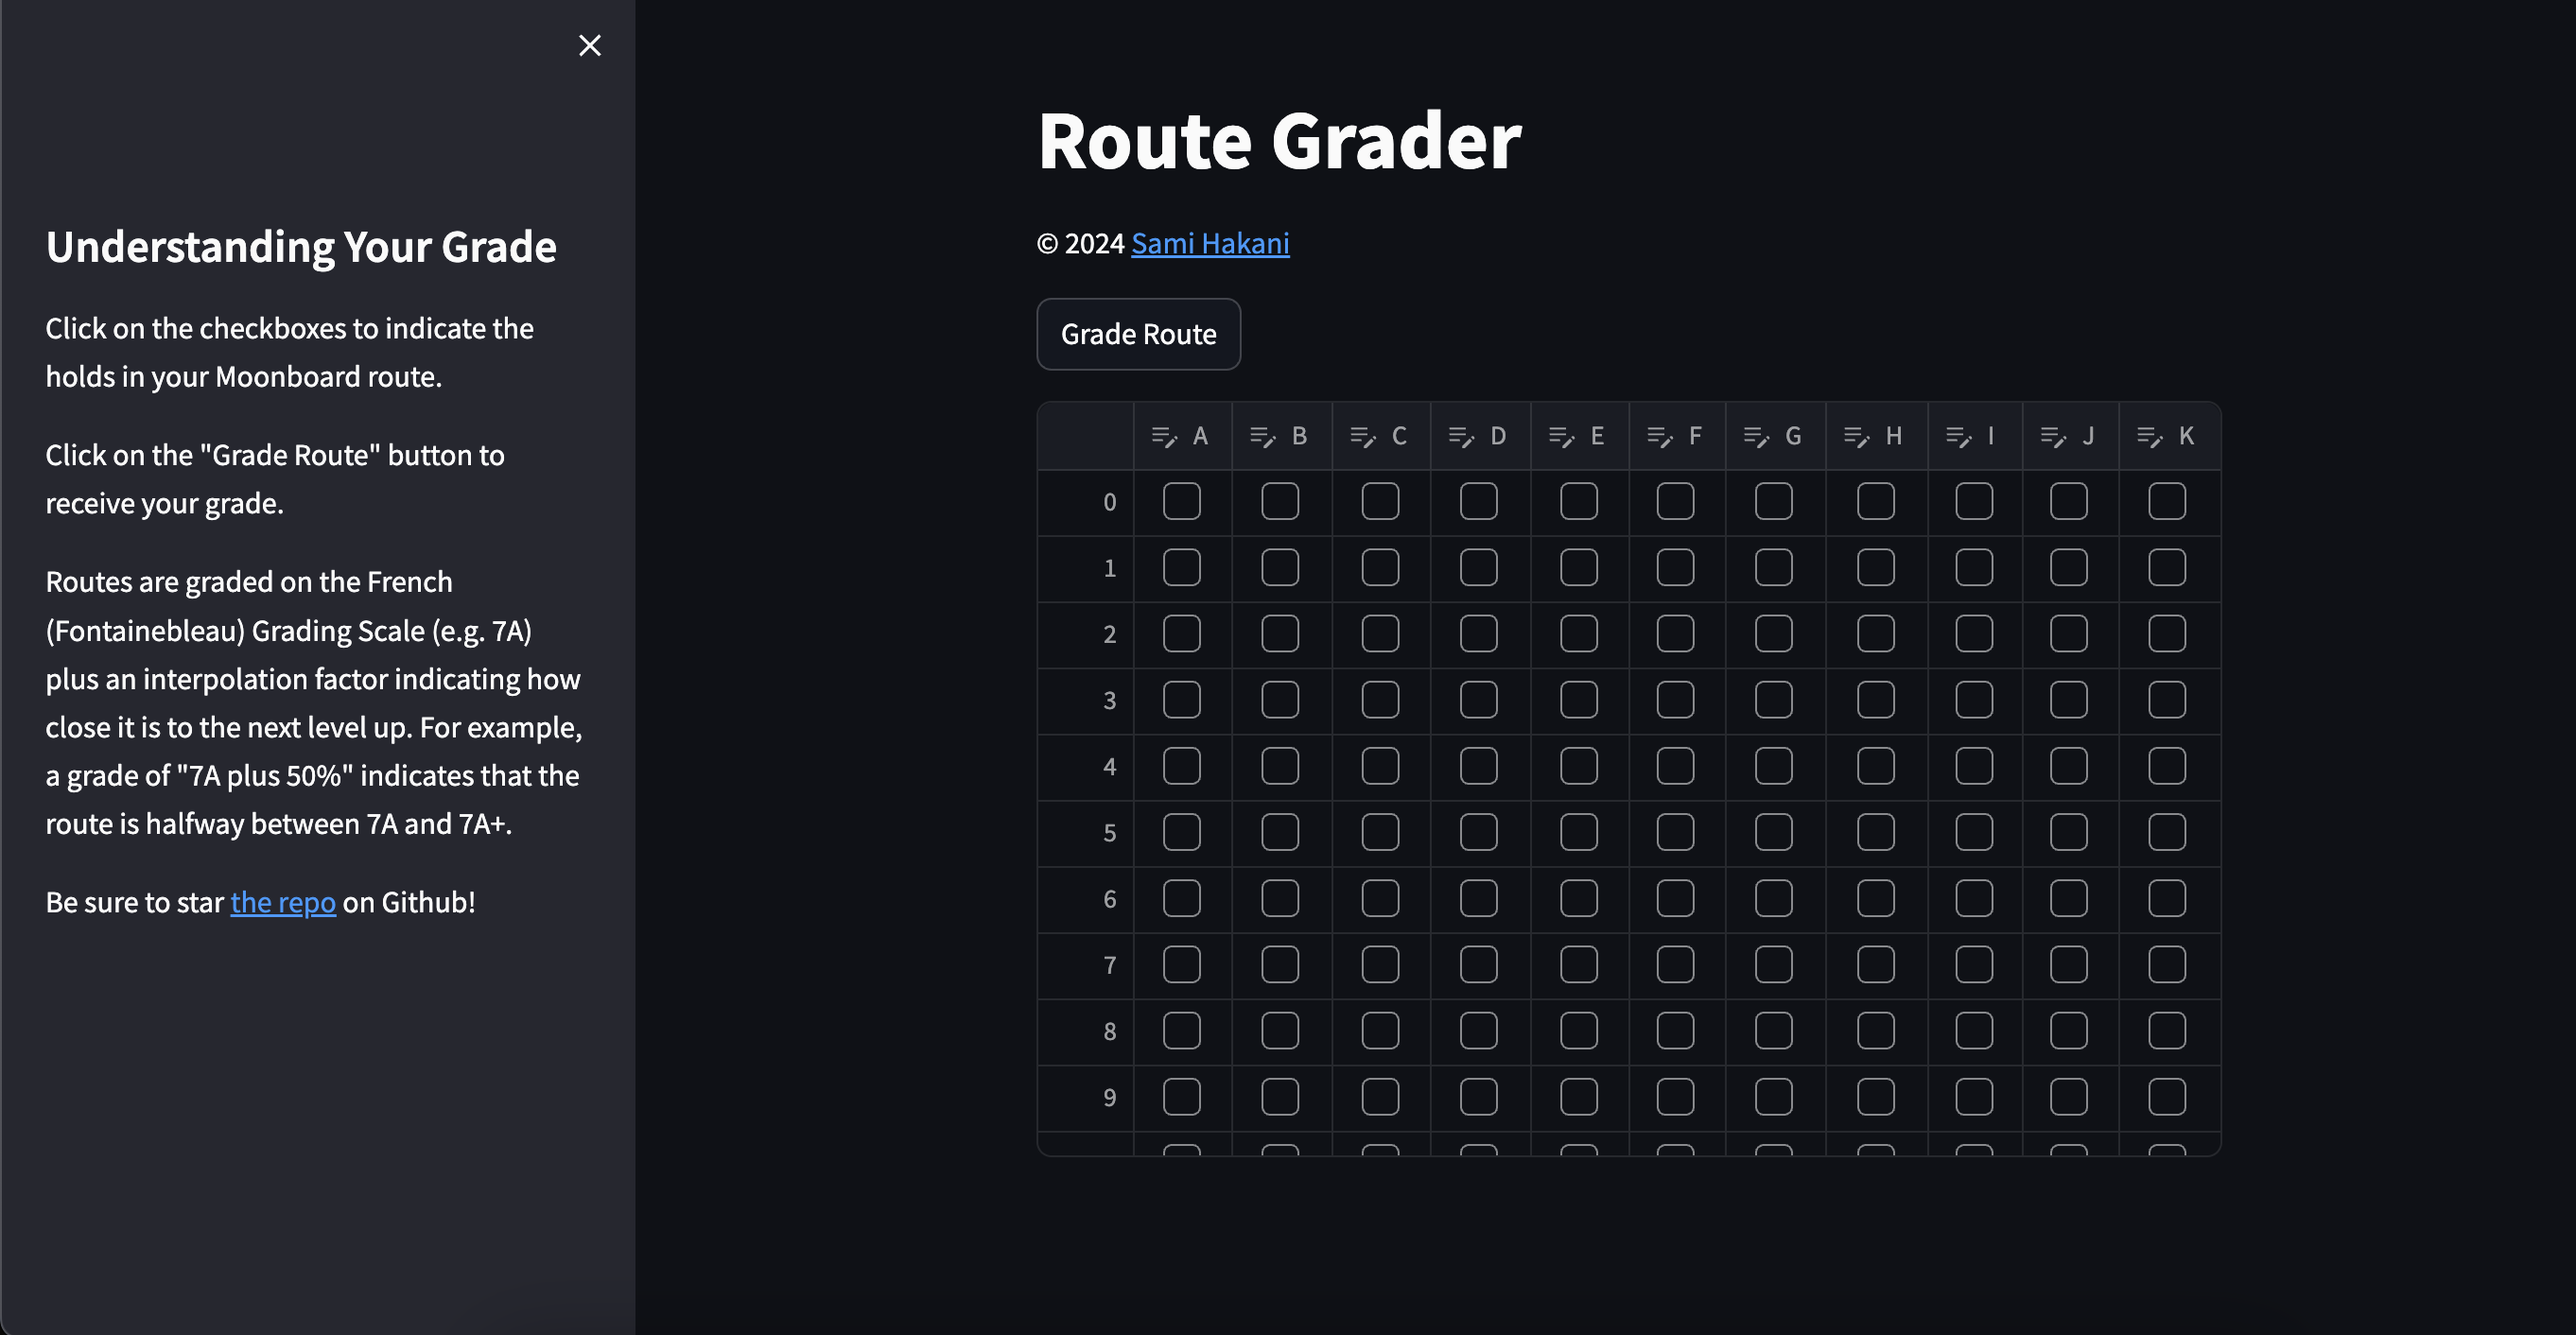
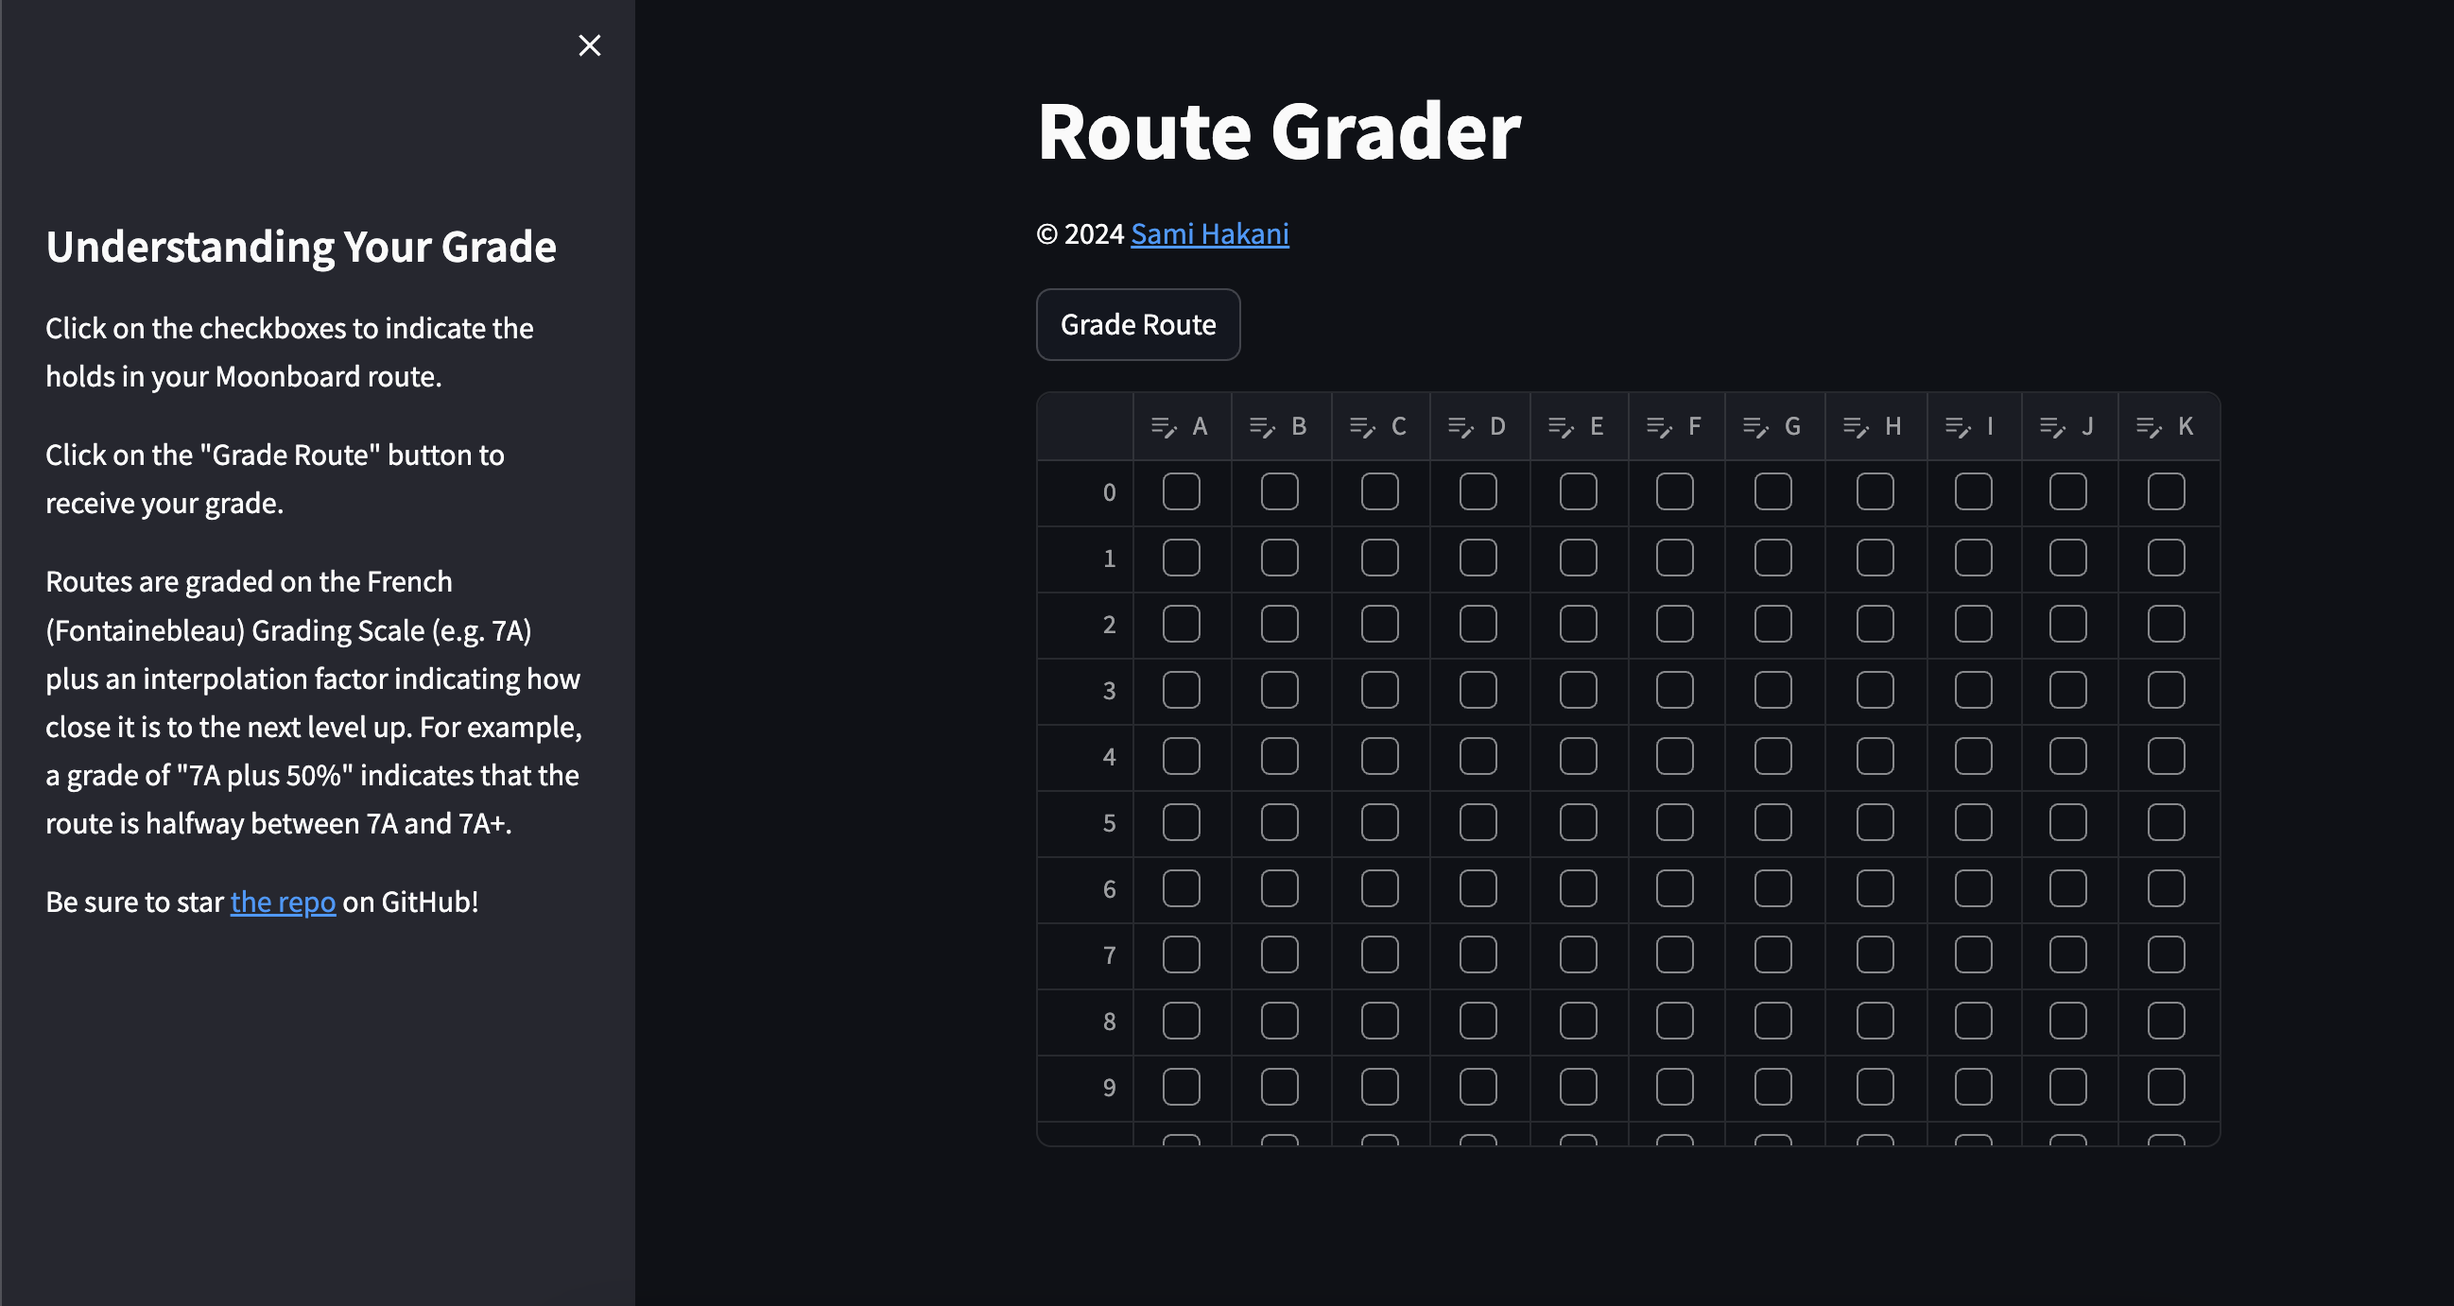
Fixed typo in preview

diff --git a/frontend/app.py b/frontend/app.py
@@ -24,7 +24,7 @@ with st.sidebar:
     Click on the "Grade Route" button to receive your grade. \n
     Routes are graded on the French (Fontainebleau) Grading Scale (e.g. 7A) plus an interpolation factor indicating how close it is to the next level up.
     For example, a grade of "7A plus 50%" indicates that the route is halfway between 7A and 7A+. \n
-    Be sure to star [the repo]({repo_url}) on Github!
+    Be sure to star [the repo]({repo_url}) on GitHub!
                 """)
 
 
